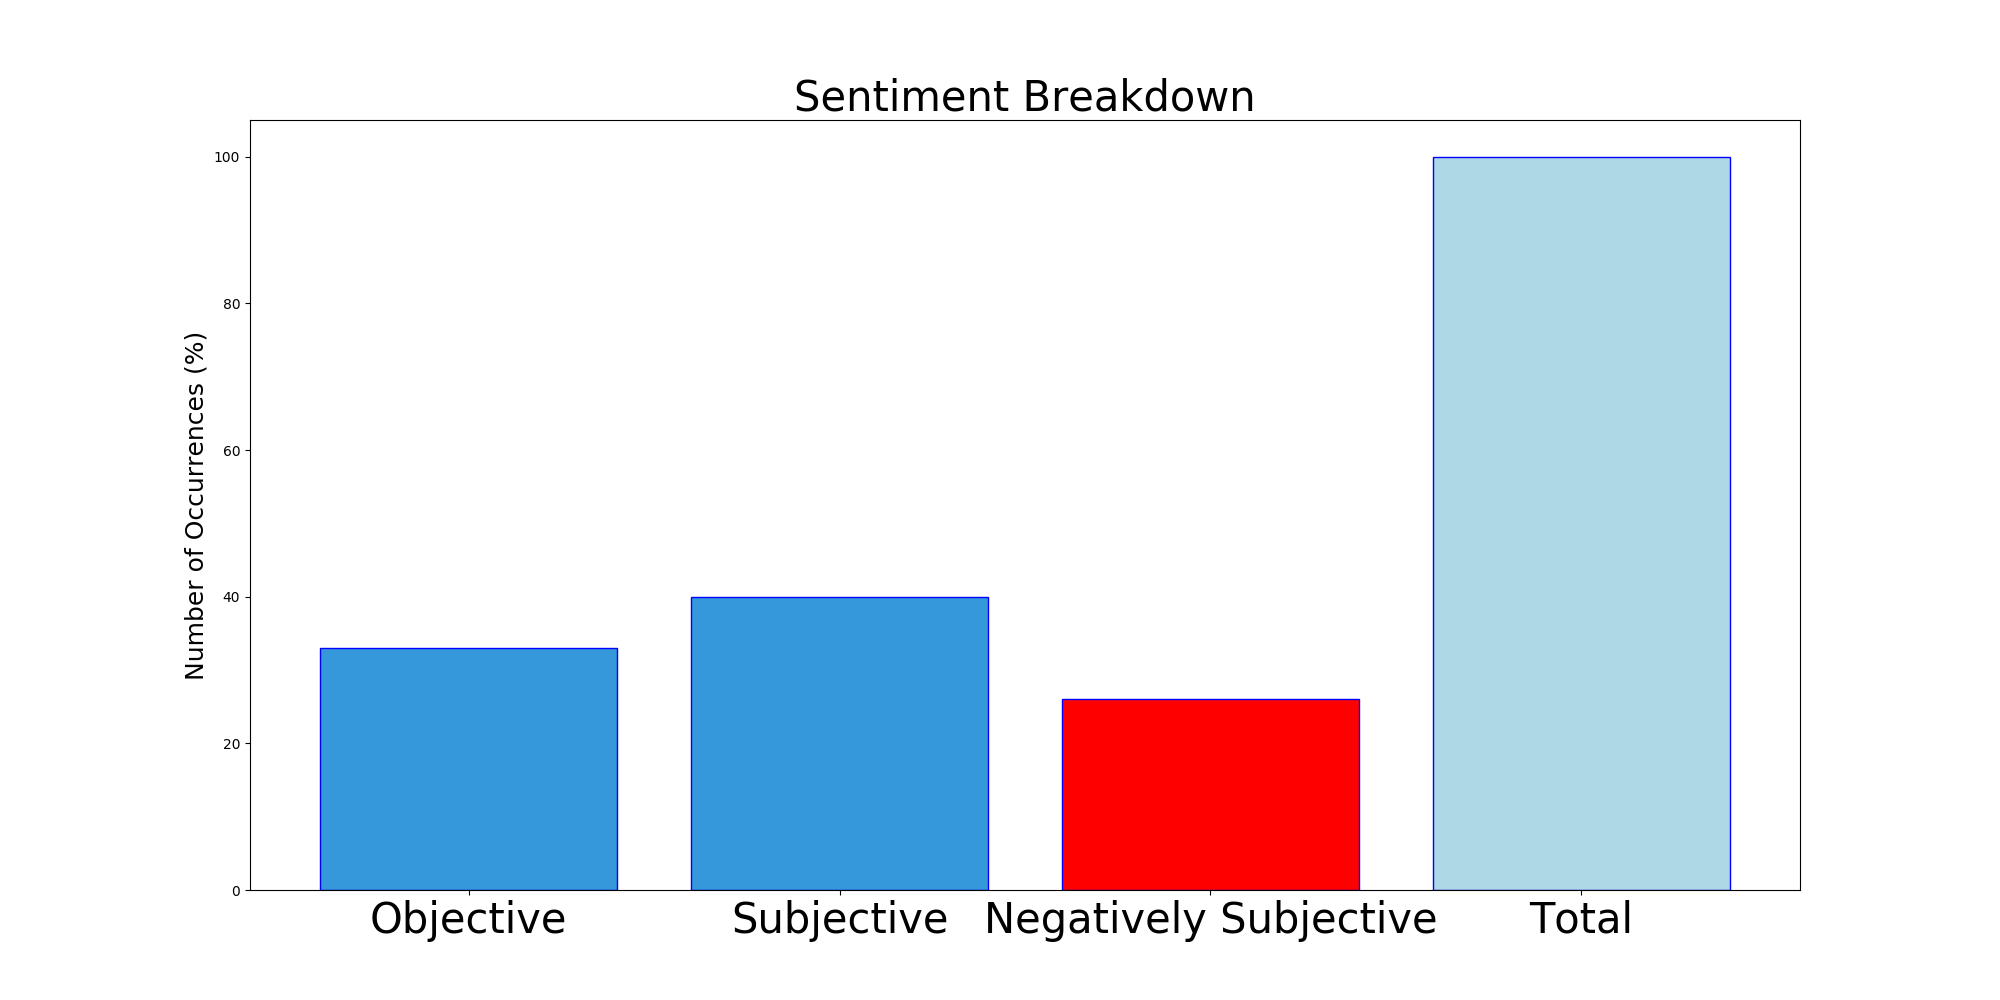
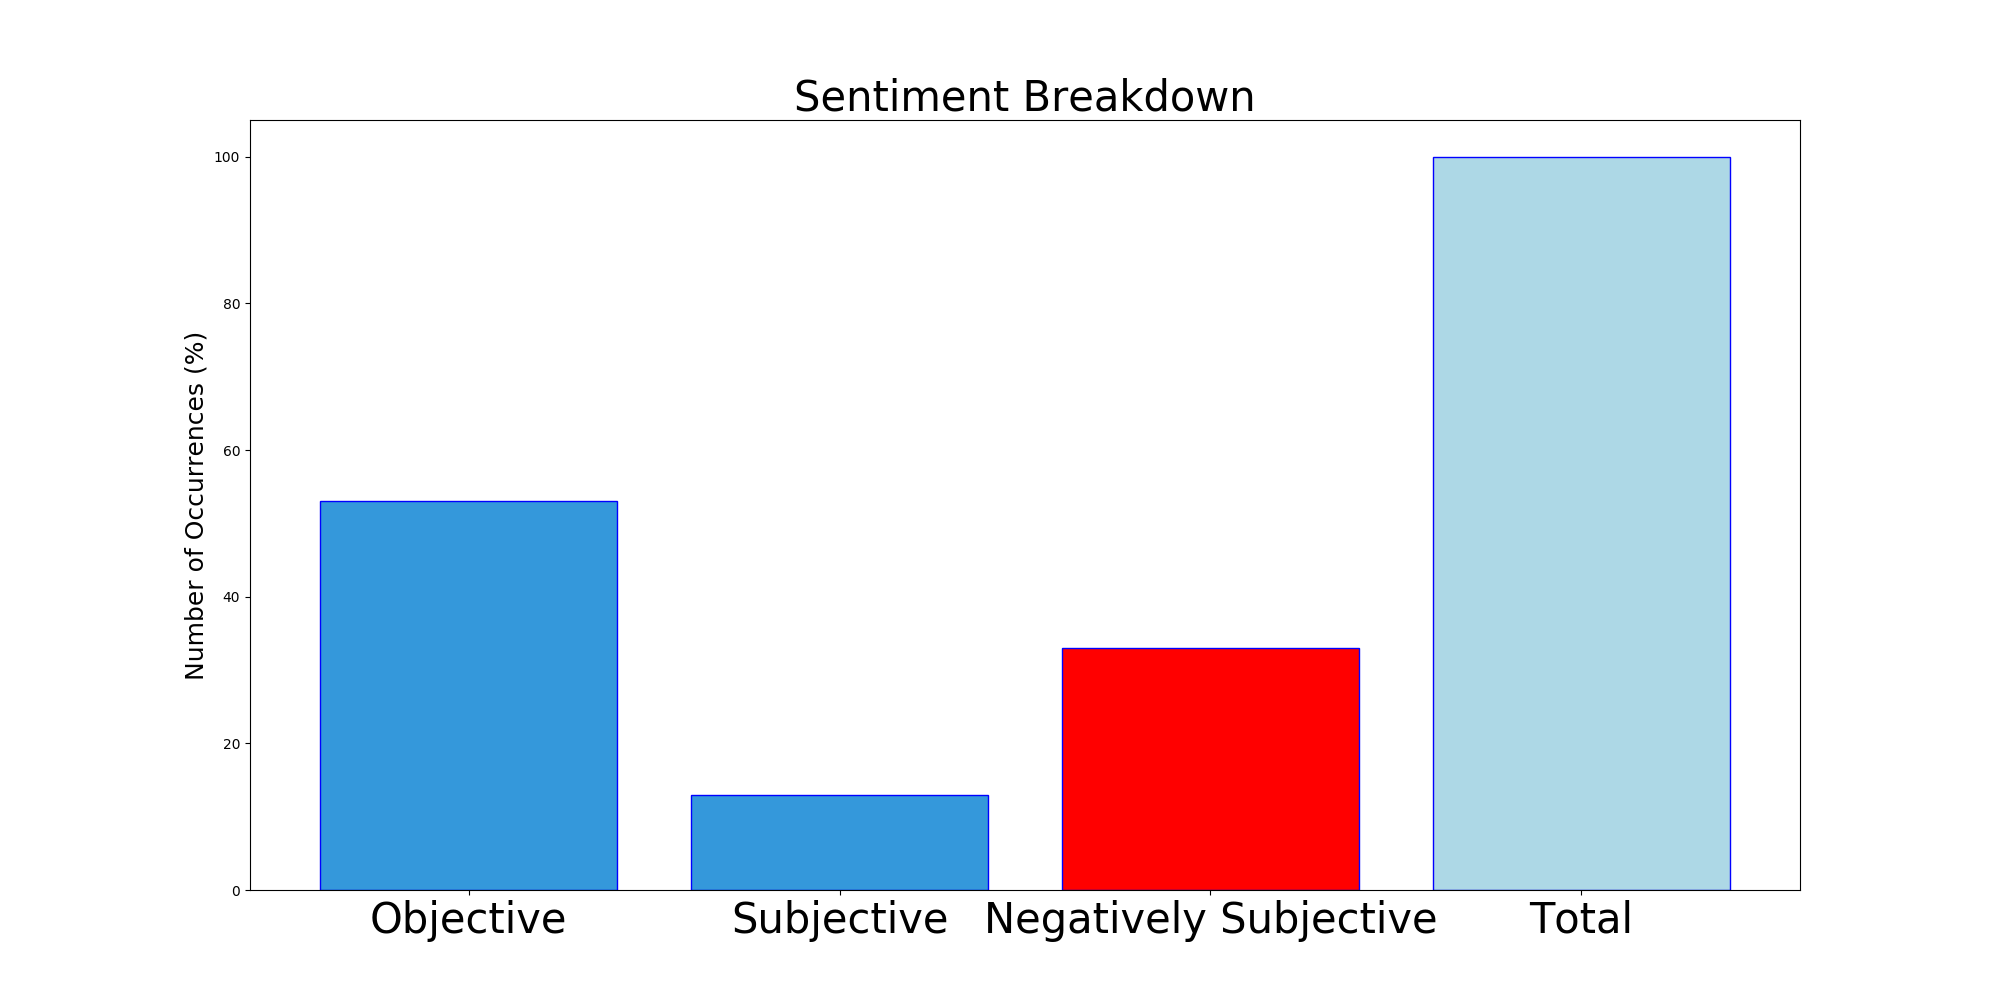
basic

Changed region(s): [[0.341, 0.589, 0.496, 0.806], [0.155, 0.496, 0.31, 0.651], [0.527, 0.62, 0.682, 0.713]]

diff --git a/README.md b/README.md
@@ -1,5 +1,5 @@
 # MURCHIE85 TWITTER PROCESSING 
-&#x1F34E; **TOPIC = "Tyson"**
+&#x1F34E; **TOPIC = "Oprah"**
 
 ## AUTOMATED RESEARCH SUMMARY
 
@@ -15,22 +15,22 @@
 
 |                **Sample-Tweets**        |
 | :-------------: |
-| RT @LiamPaulCanning: I can’t express the love I have for Tyson Fury. Absolute legend. |
-| RT @BraunStrowman: Well we’ll well @Tyson_Fury night nighted @BronzeBomber not like I’m surprised!!!!! #GetTheseHands |
-| RT @MichaelBensonn: ⏰ Tyson Fury sent Deontay Wilder this message as he started on the comeback trail in 2017. Tonight they rematch for the… |
+| RT @ChaseCenter: Thank you @oprah for an amazing, transformative day 👏 https://t.co/A9Ndw75zSo |
+| It’s Real every Sunday! Tune in Tomorrow 5:30 am and 6am CST for #RealTalk-the interview with Gayle King… https://t.co/gQtxKcvfxC |
+| Successful marriage is directly linked to Oprah Winfrey's love for Danny Phantom |
 
-The most popular user is: **missyportia**
-<div class="alert alert-block alert-danger"> RT @anthonyfjoshua: &amp; @Tyson_Fury get fit you fat fuck</div>
+The most popular user is: **DorkyEvil**
+<div class="alert alert-block alert-danger"> RT @HeidiStevens13: When I saw Oprah interview Michelle Obama, Oprah asked how Michelle got over feeling intimidated sitting at big tables…</div>
 
 ## RELATED METRICS<br>
 | Metric | Value |
 | ------------- | ------------- |
-| #1 Most tweeted to  | **Tyson_Fury** |
-| #2 Most tweeted to  | **FootyAccums** |
-| #3 Most tweeted to  | **BronzeBomber** |
-| NewProfiles (less than 10 days) | 0.68%  |
-| Tweeters with < 10 followers  | 4.44%|
-| Tweeters with > 1000000 followers  | 0.1%  |
+| #1 Most tweeted to  | **Oprah** |
+| #2 Most tweeted to  | **JustinKey101** |
+| #3 Most tweeted to  | **TalbertSwan** |
+| NewProfiles (less than 10 days) | 1.22%  |
+| Tweeters with < 10 followers  | 4.68%|
+| Tweeters with > 1000000 followers  | 0.14%  |
 
 
 
@@ -39,28 +39,28 @@ The most popular user is: **missyportia**
 
 | Popularity Rank  | Term |
 | ------------- | ------------- |
-| first  | **TYSON**  |
-| second  | **FURY**  |
-| third  | **WILDER** |
-| fourth  | **@TYSON_FURY**  |
-| fifth  | **DEONTAY**  |
+| first  | **OPRAH**  |
+| second  | **GOT**  |
+| third  | **MAJOR** |
+| fourth  | **@OPRAH**  |
+| fifth  | **BLACK**  |
 
 
 ## Twitter Bio Analysis![image](BIO.png)
 ### SENTIMENT ANALYSIS
 ![image](sentiment.png)
-VIEWS WERE : **SUBJECTIVE**  (40.0%) & **NEGATIVELY-SUBJECTIVE** (26.67%) **OBJECTIVE** (33.33%)
+VIEWS WERE : **SUBJECTIVE**  (13.33%) & **NEGATIVELY-SUBJECTIVE** (33.33%) **OBJECTIVE** (53.33%)
 
 ### TWEET SAMPLE 
 | Random value picked from array |
 | ------------- |
-|@sadaplays @Tyson_Fury absolute masterclass from fury there https://t.co/2Ypp9jrHJZ |
+|RT @michelebolgla: Congratulations to @PreetBharara  on making Oprah’s list of best political podcasts! https://t.co/j9Hi3ygDpa |
 
 ### MOST RETWEETED 
 
-| The most retweeted user is: **missyportia**  |
+| The most retweeted user is: **DorkyEvil**  |
 | ------------- |
-| RT @anthonyfjoshua: &amp; @Tyson_Fury get fit you fat fuck |
+| RT @HeidiStevens13: When I saw Oprah interview Michelle Obama, Oprah asked how Michelle got over feeling intimidated sitting at big tables… |
 
 ### CONCLUSION & EXTERNAL ANALYSIS
 
